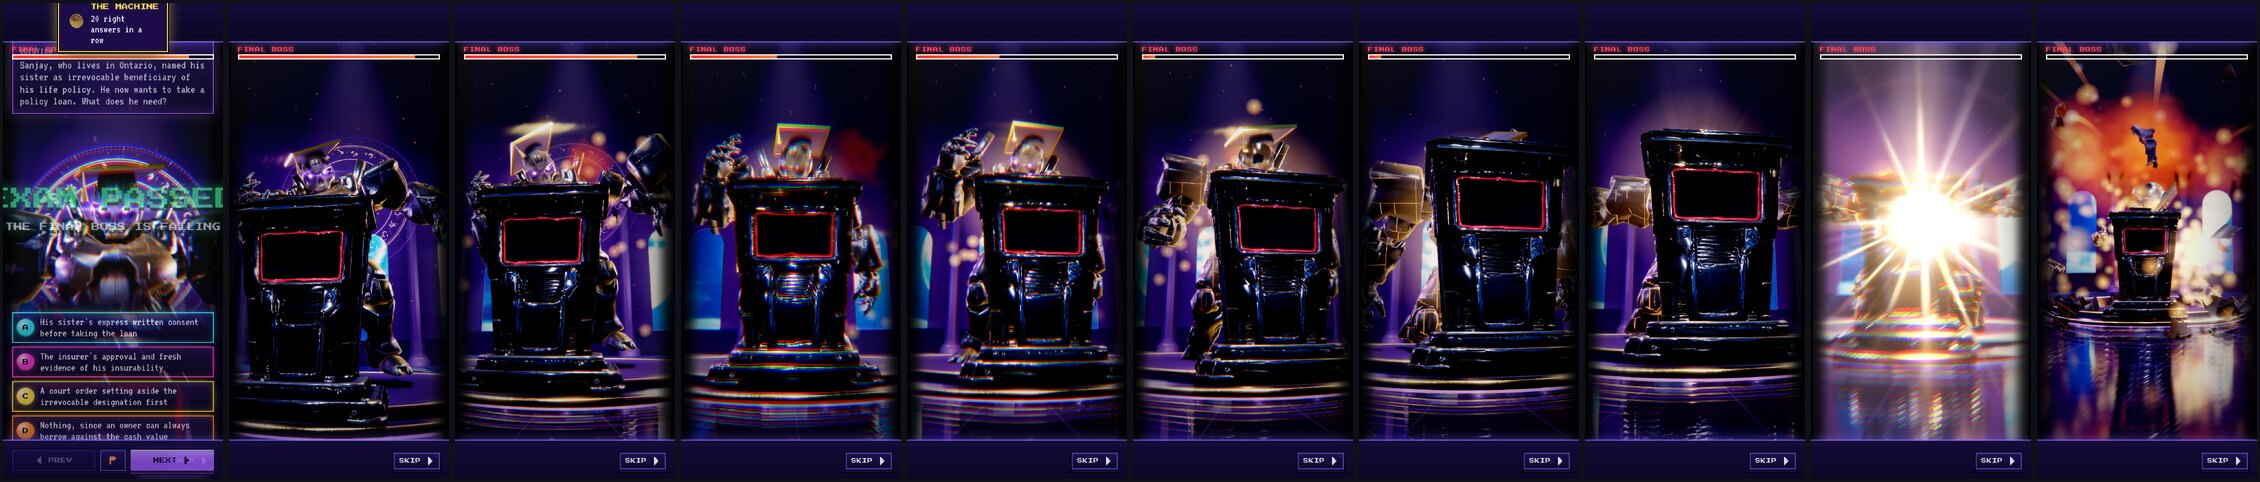
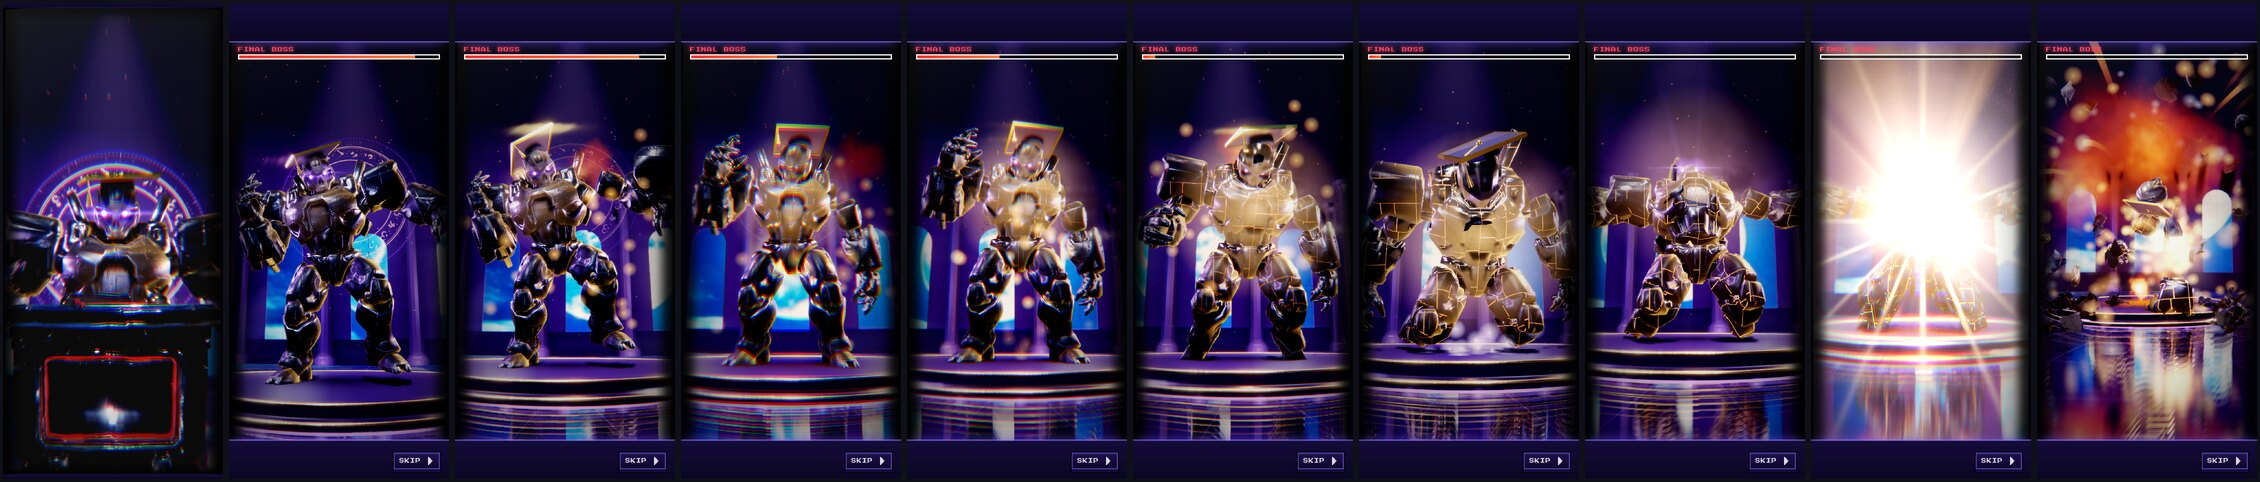
Final Exam: the lectern sinks into the dais for the ending, so the examiner's fall is seen. Results: each reward lands on a timer with its sound (the page's clock), not a CSS delay. Captures of the hall's wide view, the guide's chapter opening, the menus and the exam made again
Claude-Session: https://claude.ai/code/session_01SXN4PWw2h7NprrScNwTTGU

diff --git a/arcade/src/js/30-results.js b/arcade/src/js/30-results.js
@@ -104,7 +104,7 @@ function renderResults(o, rank) {
         <div class="res-hero" aria-hidden="true">${hero}</div>
         <h1>${esc(o.title)}</h1>
         ${o.stars !== undefined ? `<div class="res-stars">${starsHTML(o.stars)}</div>` : ""}
-        ${rw.length ? `<div class="res-rewards" aria-hidden="true">${rw.map((r) => `<span class="rw ${r.cls || ""}" style="--d:${r.at.toFixed(2)}s">${genIcon(r.kind)}</span>`).join("")}</div>` : ""}
+        ${rw.length ? `<div class="res-rewards" aria-hidden="true">${rw.map((r) => `<span class="rw ${r.cls || ""}">${genIcon(r.kind)}</span>`).join("")}</div>` : ""}
         <div class="big">${esc(o.headline)}</div>
         ${o.sub ? `<p>${esc(o.sub)}</p>` : ""}
       </div>
@@ -154,7 +154,8 @@ function renderResults(o, rank) {
       if (bust) drawBossPortrait(bust, BOSSES[heroBoss].color, heroBoss);
       if (genIconReady()) { // the reward moment's sounds, each on the beat its picture lands (see rw above), and the announcer
         for (let k = 0; k < (o.stars || 0); k++) setTimeout(() => { if (el.isConnected) Sound.sfx("reward", (k - 1) * 0.4); }, 120 + k * 140);
-        rw.forEach((r, k) => setTimeout(() => { if (el.isConnected) Sound.sfx(r.sfx, ((k % 5) - 2) * 0.15, { vol: r.kind === "coin" ? 0.6 : 1 }); }, r.at * 1000 + 180));
+        const items = $$(".res-rewards .rw", el); // (each lands on its own beat: a timer, so it keeps the page's clock)
+        rw.forEach((r, k) => setTimeout(() => { if (!el.isConnected) return; if (items[k]) items[k].classList.add("in"); Sound.sfx(r.sfx, ((k % 5) - 2) * 0.15, { vol: r.kind === "coin" ? 0.6 : 1 }); }, r.at * 1000));
         const line = o.game === "exam" ? (o.score >= 60 ? "EXAM PASSED" : "NOT YET") : o.game === "memory" ? "DECK CLEARED" : rank === 0 && o.game !== "blaster" ? "NEW HIGH SCORE" : "";
         if (line) setTimeout(() => { if (el.isConnected) Sound.say(line); }, 600);
       }

diff --git a/arcade/src/style.css b/arcade/src/style.css
@@ -1786,10 +1786,11 @@ canvas.gen { image-rendering: auto !important; filter: none !important; }
 /* the results' reward moment: what was earned arrives one by one under the headline */
 .res-rewards { display: flex; flex-wrap: wrap; justify-content: center; align-items: flex-end; gap: 4px 10px; margin: 6px 12px 2px; min-height: 44px; }
 .res-rewards .rw.coin + .rw.coin { margin-left: -24px; } /* (the coins land in a little pile) */
-.res-rewards .rw { display: flex; flex-direction: column; align-items: center; gap: 2px; font: 8px/1 var(--font-display); color: var(--c, #ffe14f); text-shadow: 0 2px 0 #000; animation: rw-in 0.55s var(--ease-spring, ease-out) backwards; animation-delay: var(--d, 0s); }
+.res-rewards .rw { display: flex; flex-direction: column; align-items: center; gap: 2px; opacity: 0; }
+.res-rewards .rw.in { opacity: 1; animation: rw-in 0.55s var(--ease-spring, ease-out) backwards; }
 .res-rewards .rw .gico { width: 40px; height: 40px; filter: drop-shadow(0 3px 0 rgba(0, 0, 0, 0.7)) drop-shadow(0 0 10px color-mix(in srgb, var(--c, #ffe14f) 55%, transparent)); }
 .res-rewards .rw.big .gico { width: 50px; height: 50px; }
 .res-rewards .rw.coin .gico { width: 32px; height: 32px; }
 @keyframes rw-in { 0% { opacity: 0; transform: translateY(-26px) scale(0.4); } 60% { opacity: 1; transform: translateY(3px) scale(1.12); } 100% { transform: none; } }
-@media (prefers-reduced-motion: reduce) { .res-rewards .rw { animation: rw-fade 0.4s ease-out backwards; animation-delay: var(--d, 0s); } }
+@media (prefers-reduced-motion: reduce) { .res-rewards .rw.in { animation: rw-fade 0.4s ease-out backwards; } }
 @keyframes rw-fade { 0% { opacity: 0; } 100% { opacity: 1; } }

diff --git a/arcade/src/js/24d-examgen.js b/arcade/src/js/24d-examgen.js
@@ -28,6 +28,21 @@ function examGen(game) {
     podium.scene.rotation.y = P.ry;
     s.add(podium.scene);
     G.podium = podium;
+    G.sink = 0;
   }
   return G;
+}
+// Each frame: the sky stays round the lens, and when the ending begins (the examiner falls, or makes its last stand)
+// the lectern sinks into the dais, so the camera that draws back for the ending sees the examiner, not the lectern.
+function examGenUpdate(game, dt) {
+  const G = game.gen;
+  if (!G) return;
+  if (G.dome) G.dome.userData.follow(game.camera);
+  if (G.podium) {
+    const B = game.boss, end = !!(B && (B.mode === "die" || B.mode === "rage"));
+    G.sink = clamp(G.sink + (end ? dt / 0.8 : -dt / 0.8), 0, 1);
+    const k = G.sink * G.sink * (3 - 2 * G.sink);
+    G.podium.scene.position.y = BOSS_DAIS - k * EXAM_GEN.PODIUM.s * 1.05;
+    G.podium.scene.visible = k < 0.999;
+  }
 }

diff --git a/arcade/tools/scenarios/menus.js b/arcade/tools/scenarios/menus.js
@@ -68,7 +68,7 @@ module.exports = async (cap) => {
     A.show.results({ game: "boss", sel: A.makeSelection("4"), run: { correct: 6, answered: 6, bestStreak: 6, missed: [], xp0: -230, start: {} }, stars: 3, score: 18450,
       title: "STAGE CLEAR", headline: "18,450", sub: "The Fine Print falls", color: "#ff3ad4", won: ["boss6", "streak20"] }, 0);
   });
-  await strip("08-results-reward", 9, 9, { thumb: 240 });
+  await strip("08-results-reward", 10, 14, { thumb: 230, cols: 10 });
   await cap.fast(60);
   await still("09-results");
   // ---- stats: rank, tiles, the trophies

diff --git a/arcade/src/js/24-exam.js b/arcade/src/js/24-exam.js
@@ -668,7 +668,7 @@ class ExamGame extends QuizGame {
     }
     if (!this.has3D) return;
     const t = this.t;
-    if (this.gen && this.gen.dome) this.gen.dome.userData.follow(this.camera);
+    examGenUpdate(this, dt); // (served: the moonlit sky round the lens; the lectern sinks away for the ending)
     this.dist += (this.distT - this.dist) * Math.min(1, dt * 2.5);
     const B = this.boss;
     if (B) {
